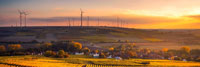
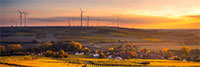
new 200 image

diff --git a/lesson10/preston-10.html b/lesson10/preston-10.html
@@ -38,9 +38,9 @@
         <h2>Preston Idaho</h2>
         <div class="hero-image">
             <picture>
-                <source media="(max-width: 549px)" srcset="images/original200.jpg">
-                <source media="(max-width: 899px)" srcset="images/original550.jpg">
-                <img src="images/original900.jpg" alt="Preston Hero Image">
+                <source media="(max-width: 549px)" srcset="images/prestonlandscape200.jpg">
+                <source media="(max-width: 899px)" srcset="images/prestonlandscape550.jpg">
+                <img src="images/prestonlandscape1000.jpg" alt="Preston Hero Image">
             </picture>
             <section class="weather-summary">
                     <h3>Weather Summary</h3>
